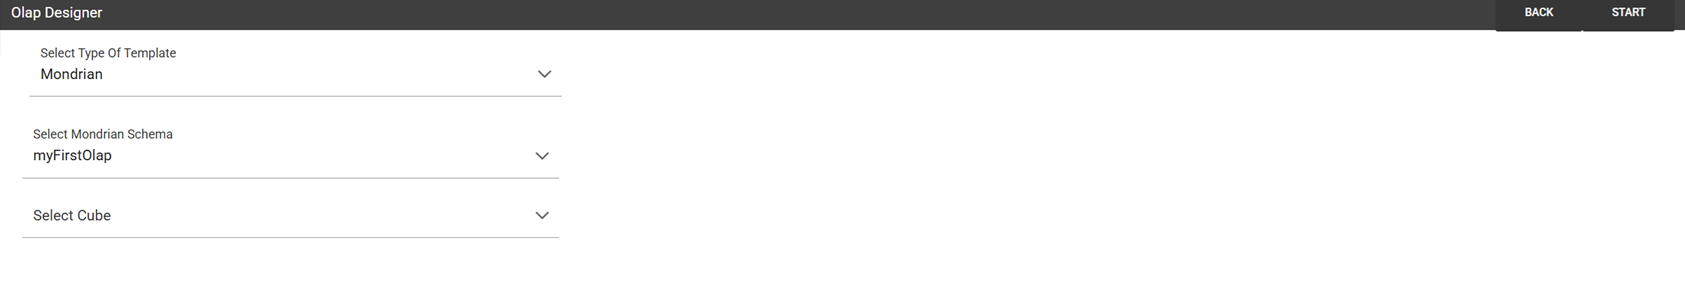
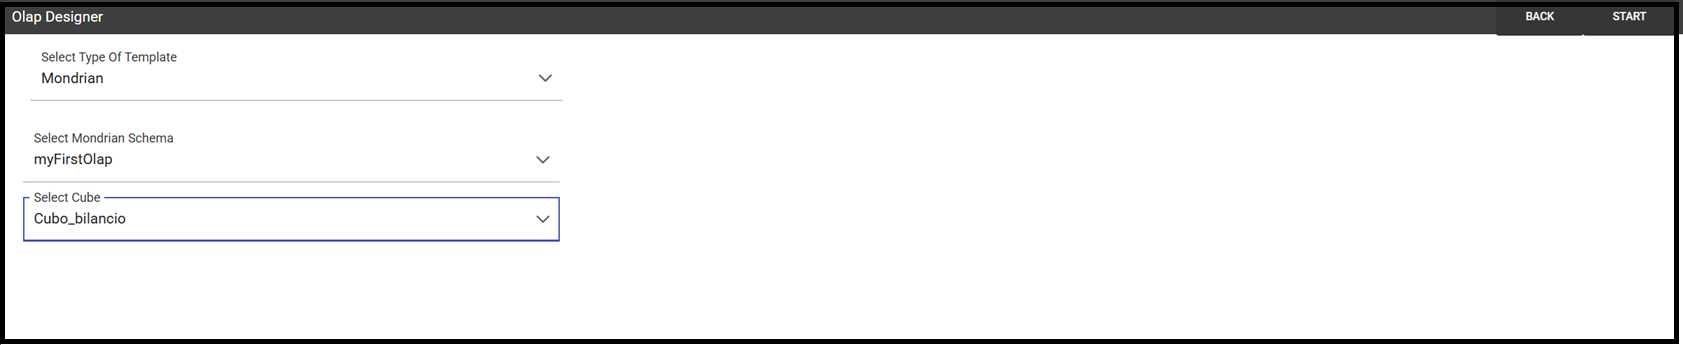
fix_olap_004

Changed region(s): [[0.0, 0.0, 1.0, 1.0], [0.0, 0.3737, 0.3399, 0.7785], [0.0, 0.8097, 0.309, 0.8408]]

diff --git a/chapter_3/create_multidimension/olap.rst b/chapter_3/create_multidimension/olap.rst
@@ -702,23 +702,26 @@ The catalog with the list of all the *Mondrian Schemas* opens as shown below .
 
     Mondrian Schema Catalog.
 
-Then enter in the **Document Browser**, click on the “Plus” icon at the top right corner of the page and choose "Gneric document". As described in the previous section, fill in the mandatory boxes as Label and Name of the document, select the **On-Line Analytical Processing** Type of document and the **OLAP Engine**, add the data source and the state. Remember to save to move to the next step: open the Designer. The latter can be opend clicking on the **Open Designer** link.
+From the **Document Browser**, click on the *Plus* icon at the top right corner of the page and choose *Generic document*. 
+Fill in the mandatory information such as *Name* and *Label*, select *On-Line Analytical Processing* as Type of document and *OLAP Engine* as Engine. Add the data source and the state. 
+Remember *to save* before clicking the **Open Designer** link.
 
-A new page will be opened, the first thing to choose is the kind of template between XMLA Server and Mondrian, we choose Mondrian one. Then you will be asked to choose the Mondrian Schema and after that to select a cube. Next figure sums up these three steps. 
+At this point choose Mondrian as *Template*, the *Mondrian Schema* and finally the *cube*. See below. 
 
 .. _olapcoreconfig:
 .. figure:: media/image198_1.png
 
     OLAP core configuration.
 
-Then clicking on start button you will enter a page like that of the following figure. 
+Click the *Start* link. The image below shows the outcome. 
 
 .. _definingolaptempl:
 .. figure:: media/image199.png
 
     Defining OLAP template.
 
-Once entered the page the user can freely set the fields as axis or as filter cards, according to requirements. Refer to *Functionalities* Chapter to review the terminology. Make your selection and you can already save the template as shown below.  
+Aaccording to requirements set the fields as axis or as filter cards. 
+Please refer to the *Functionalities* chapter for the terminology. Make your selection and you can already save the template as shown below.  
 
 .. _definingolaptempl2:
 .. figure:: media/image200.png
